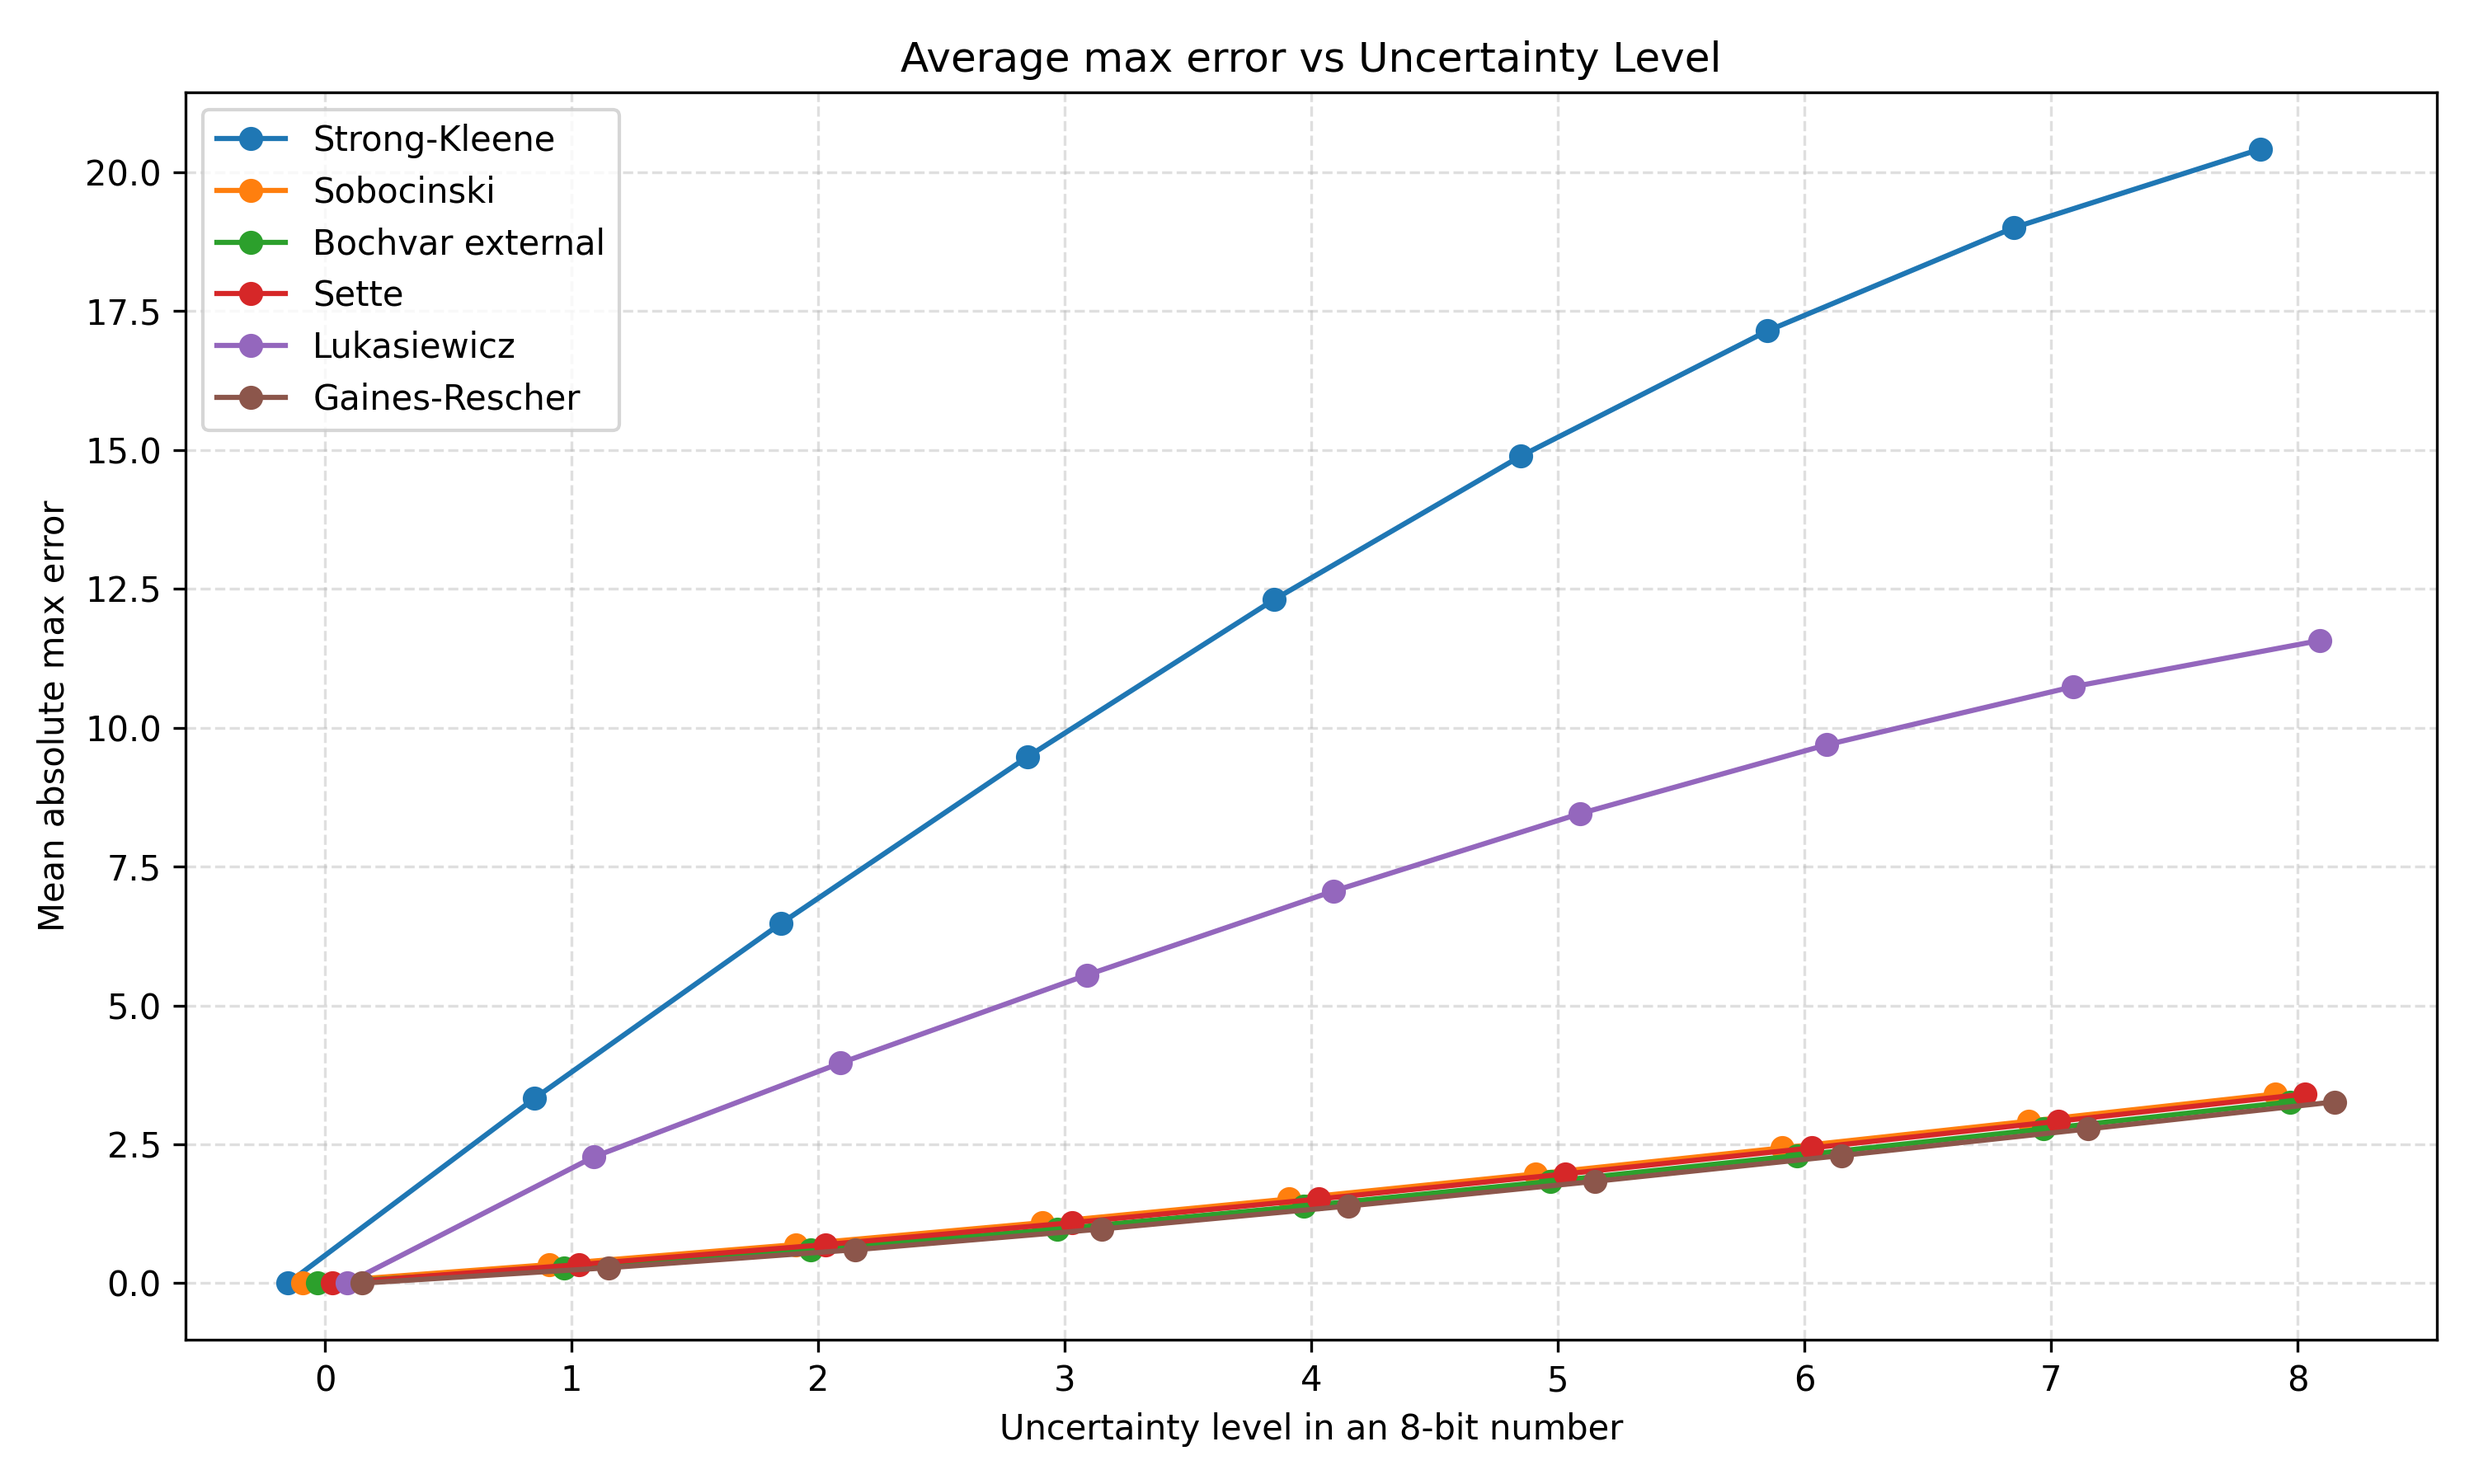
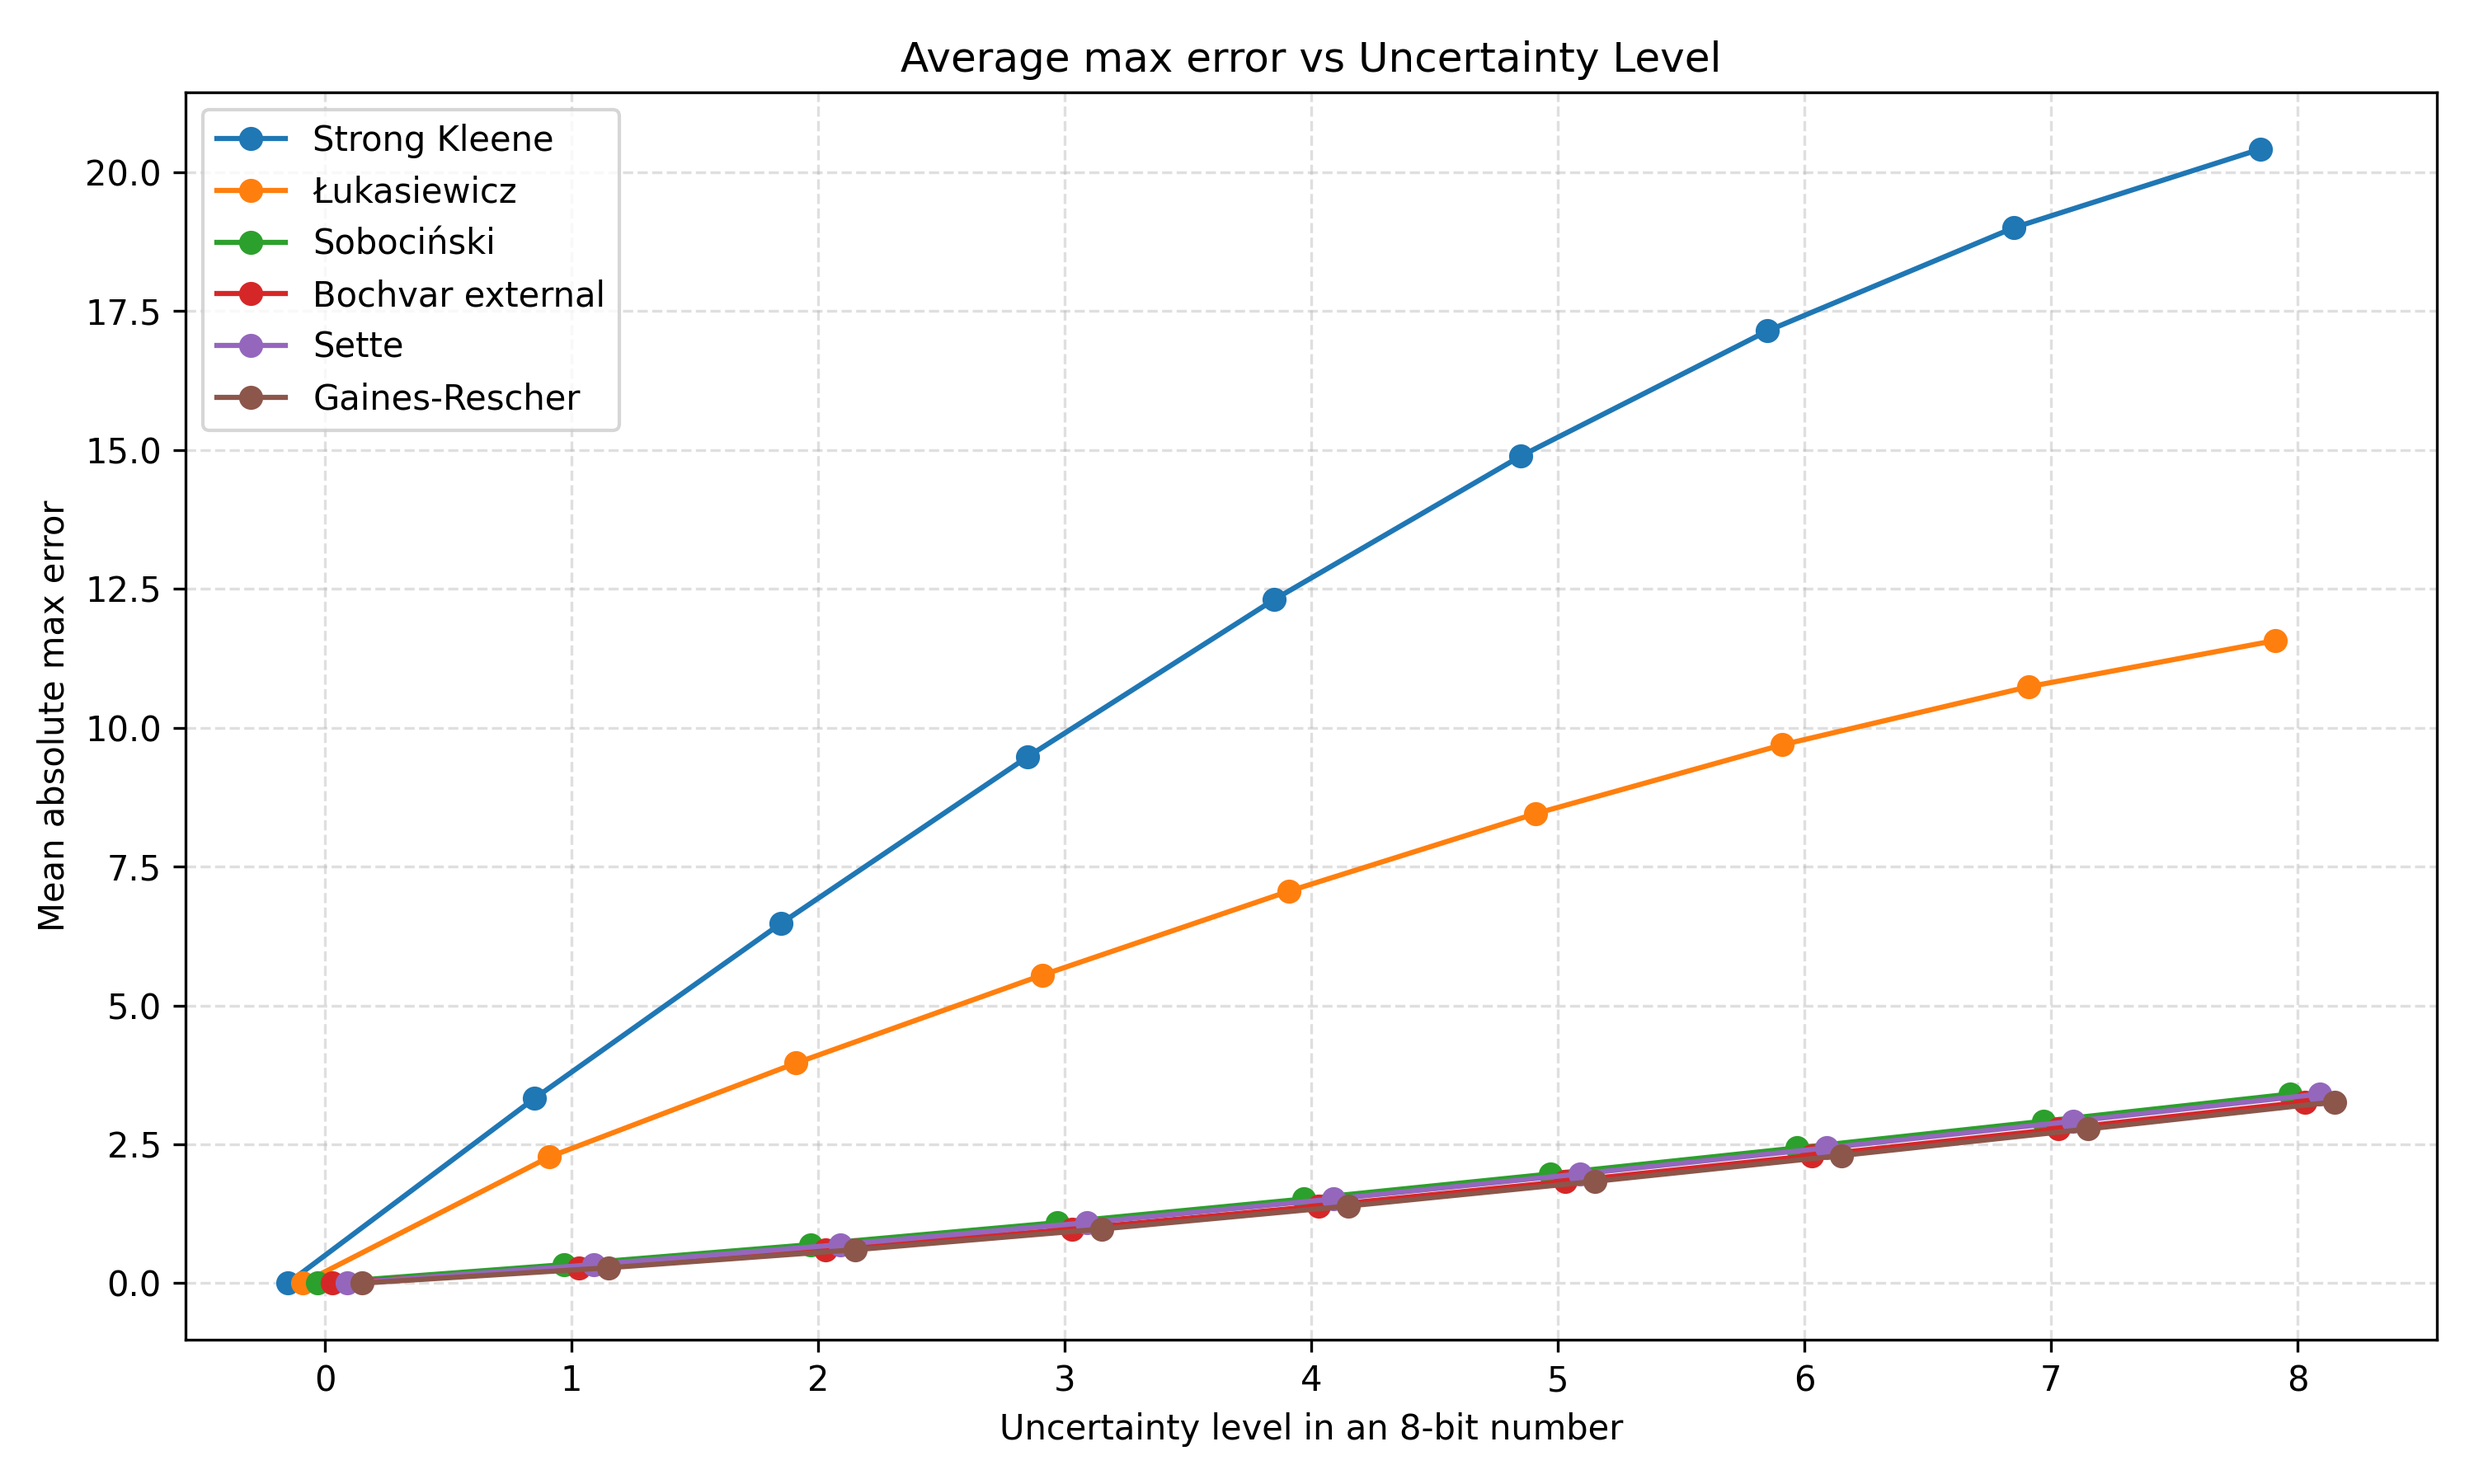
set commit - "update  some adders"

diff --git a/HTLConvolution/htl_convolution.py b/HTLConvolution/htl_convolution.py
@@ -2,6 +2,7 @@ import numpy as np
 import math
 from typing import Callable, Tuple, Any
 
+from Adders.sobocinski_adder import sobocinski_ripple
 # Import required helpers
 from HTLConvolution.helpers import (
     fit_width,
@@ -263,7 +264,7 @@ def convolution(X: np.ndarray,
     V = X[:, :, K1:]
 
     U_trunc, carry_vals, carry_mask = U_pass(
-        U, kernel, ripple_add, carry_policy="definite"
+        U, kernel, ripple_add, carry_policy="center"
     )
 
     V_pre = V_pass(V, kernel, balanced_ternary_add)
@@ -293,3 +294,36 @@ def convolution(X: np.ndarray,
             "V_pre": V_pre,
         }
     return Y
+
+
+# def twos_complement_(uvec_lsb: list[int], width: int) -> list[int]:
+#     """LSB-first two's complement for uncertain-binary trits."""
+#     full_vec = uvec_lsb + [-1] * (width - len(uvec_lsb))
+#
+#     out = []
+#     found_one = False
+#
+#     for t in full_vec:
+#         if not found_one:
+#             out.append(+1 if t == +1 else -1 if t == -1 else 0)
+#             if t == +1:
+#                 found_one = True
+#         else:
+#             if t == +1:
+#                 out.append(-1)
+#             elif t == -1:
+#                 out.append(+1)
+#             else:
+#                 out.append(0)
+#
+#     return out
+#
+# def pad_to_ext(vec_lsb: list[int]) -> list[int]:
+#     if len(vec_lsb) < 10:
+#         return vec_lsb + [-1] * (10 - len(vec_lsb))
+#     return vec_lsb[:10]
+#
+# acc = sobocinski_ripple([[1,1,1,1,1,1], twos_complement_([-1,1,1,1,1,1],10)])
+# acc = pad_to_ext(acc)
+#
+# print(acc)

diff --git a/ternary-arithmetic/adder_approx_v3.py b/ternary-arithmetic/adder_approx_v3.py
@@ -14,11 +14,11 @@ adder_tr = get_Adder(4)
 adder_2_tr = get_Adder(5)
 
 adders = {
-    "Strong-Kleene": strong_kleene_full_adder,
-    "Sobocinski": map_quasi_adder,
+    "Strong Kleene": strong_kleene_full_adder,
+    "Łukasiewicz": adder_tr,
+    "Sobociński": map_quasi_adder,
     "Bochvar external": adder1,
     "Sette": adder_collab,
-    "Lukasiewicz": adder_tr,
     "Gaines-Rescher": adder_2_tr,
 }
 # ---------------------
@@ -221,7 +221,7 @@ def plot_metric(metric):
     plt.grid(True, linestyle="--", alpha=0.4)
     plt.legend()
 
-    # 🔥 Force x-axis ticks to show every level 0..8
+    # Force x-axis ticks to show every level 0..8
     plt.xticks(LEVELS)
 
     plt.tight_layout()

diff --git a/main.py b/main.py
@@ -140,6 +140,7 @@ def run_htl_convolution_benchmark(
 
         fname = f"kernel_plot_{adder_name}_{kernel_name}.png"
         plt.savefig(fname, dpi=300)
+        plt.show()
         plt.close()
 
         print(f"Saved per-kernel plot: {fname}")
@@ -181,7 +182,7 @@ if __name__ == "__main__":
 
     uncertain_adders = {
         "sobocinski": sobocinski_ripple,
-        # "lukasiewicz": luka_ripple_add,
+        #"lukasiewicz": luka_ripple_add,
         # "bochvar": bochvar_ripple_add,
         # "sette": sette_ripple_add,
         # "gaines_rescher": gaines_ripple_add,

diff --git a/Adders/lukasiewicz_adder.py b/Adders/lukasiewicz_adder.py
@@ -48,9 +48,7 @@ def luka_or(a: int, b: int) -> int:
 # This is consistent with ternary variational XOR.
 
 def luka_xor(a: int, b: int) -> int:
-    if a == b:
-        return luka_and(a, b)
-    return luka_or(a, b)
+    return luka_and(luka_or(a, b), -luka_and(a, b))
 
 # ============================================================
 # 4) LUKASIEWICZ FULL ADDER FOR ONE DIGIT

diff --git a/Adders/strong_kleene_adder.py b/Adders/strong_kleene_adder.py
@@ -24,7 +24,7 @@ def kleene_or(a, b):
 
 def kleene_xor(a, b):
 
-    return min(max(a,b),-min(a,b))
+    return kleene_and(kleene_or(a,b),-kleene_and(a,b))
 
 
 def strong_kleene_full_adder(a, b, cin = -1):

diff --git a/Adders/sobocinski_adder.py b/Adders/sobocinski_adder.py
@@ -321,3 +321,5 @@ def sobocinski_ripple(vecs):
             result.append(carry)
 
         return result
+
+# print(sobocinski_ripple([[1,1,1,1,1,1,1,1,1],[1,-1,-1,-1,-1,-1,-1,-1,-1]]))
